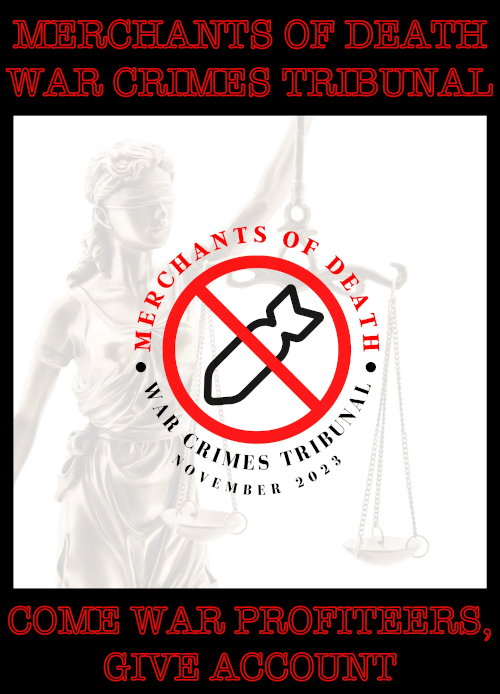
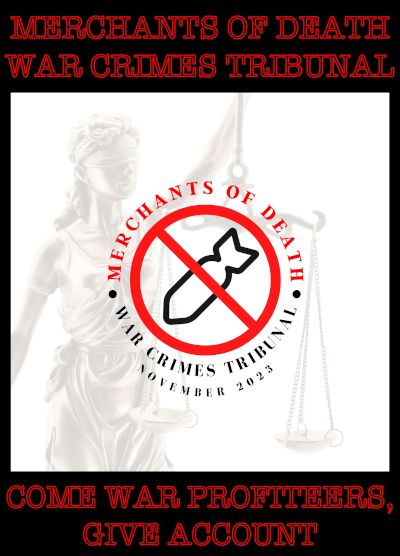
Add Social Media tags, Spotify & iTunes players, Resize merchants. of death image
Add meta tags: Facebook & Twitter
Add button: iTunes
Add Spotify mini player
Resize merchants of death war crimes tribunal

diff --git a/index.html b/index.html
@@ -9,10 +9,31 @@
 <meta property="og:locale" content="en_US" />
 <meta property="og:type" content="article" />
 
+<meta property="og:url"           content="https://www.myWbsite.com/my-page.html" />
+<meta property="og:type"          content="website" />
+<meta property="og:title"         content="MICIMATT: The Military Industrial Complex has Mutated" />
+<meta property="og:description"   content="Page description" />
+<meta property="og:image"         content="https://www.myWebsite.com/asset/image.jpg" />
+
+<!--Facebook-->
+<meta property="og:url" content="{{ craft.app.request.absoluteUrl }}"/>
+<meta property="og:type" content="website"/>
+<meta property="og:title" content="{{ entry.title }}"/>
+<meta property="og:image" content="{{ entry.socialImage }}"/>
+<meta property="og:description" content="{{ entry.description }}"/>
+<meta property="og:site_name" content="{{ site.name }}"/>
+
+<!--twitter-->
+<meta name="twitter:url" content="{{ craft.app.request.absoluteUrl }}"/>
+<meta name="twitter:title" content="{{ entry.title }}"/>
+<meta name="twitter:description" content="{{ entry.description }}"/>
+<meta name="twitter:image" content="{{ entry.socialImage }}"/>
+
 <link rel='stylesheet' id='wp-bigfoot-css'  href='https://www.openpolitics.com/wp-content/plugins/wp-bigfoot/public/css/bigfoot-default.css' type='text/css' media='all' />
 <link rel='stylesheet' id='genesis-openpolitics-child-theme-css'  href='https://monster.openpolitics.com/wp-content/themes/genesis-child/style.css?ver=2.2.2' type='text/css' media='all' />
 <link rel='stylesheet' id='child-theme-css-css'  href='https://monster.openpolitics.com/wp-content/themes/genesis-child/style.css?ver=4.5.4' type='text/css' media='all' />
 <link rel='stylesheet' id='bootstrap-css-css'  href='https://www.openpolitics.com/wp-content/themes/genesis-child/bootstrap.min.css?ver=4.5.4' type='text/css' media='all' />
+
 
   <!--- 1) jQuery -->
   <script src="https://code.jquery.com/jquery-1.12.4.min.js"   
@@ -103,7 +124,7 @@ div.site-inner {
 }
 
 #nav_menu {
-  margin-top: 10px;
+  margin-top: 0px;
 }
 
 .feature {
@@ -181,6 +202,25 @@ div.verse div.chorus {
 
 span.word-text {
 	color: #fff;
+}
+
+#MICIMATT {
+  color: #BBC2CC;
+  text-shadow: 2px 2px 4px #999;
+}
+
+.silver {
+  color: #BBC2CC;
+  text-shadow: 2px 2px 4px #888;
+}
+
+#listen_services {
+  margin-top: 25px;
+  margin-left: 50px;
+}
+
+.nav_select {
+  text-shadow: 2px 2px 4px #a8a82f;
 }
 
 #lyrics {
@@ -330,7 +370,7 @@ iframe {
     float: none;
     clear: both;
     width: 100%;
-    padding-bottom: 15px;
+    padding-bottom: 5px;
 }
 
 .video {
@@ -466,6 +506,26 @@ iframe.podast {
 }
 
 
+#embed-iframe {
+    margin-top: 10px;
+}
+
+#share_buttons {
+  float: right;
+  text-align: right;
+
+}
+
+  .facebookButton {
+      /* Style Button */
+  }
+
+  .twitterButton {
+      /* Style Button */
+  }
+
+
+
 @media (max-width: 385px) {
     div.site-container {
         width: 375 important;
@@ -540,6 +600,14 @@ iframe.podast {
 
 }
 
+    @media screen and (min-width: 860px) {
+      body {
+        display: flex;
+        flex-direction: row;
+        gap: 1rem;
+      }
+    }
+
 
 </style>
 <link rel="stylesheet" type="text/css" href="https://www.openpolitics.com/wp-content/themes/genesis-child/print.css" media="print">
@@ -566,22 +634,38 @@ iframe.podast {
 
 <h1 id="MICIMATT" style="text-align:center"><strong>The Military Industrial Complex</strong> (MIC)<br /> has become <strong>The MICIMATT</strong></h1>
 
-  <div id="nav_menu" class="power-centers">
-    <strong class="highlight_color">MIC Origins</strong> | <a href="https://writing.openpolitics.com/i/138629464/lyrics-remixed-micimatt-song">Lyrics</a> | <a href="https://merchantsofdeath.org/">War Crimes</a> | <a href="/credits/">Credits</a> | <a href="/about/">About</a>
-  </div>
-
 
 <div id="video_container" ><!--youtube_video-->
   <iframe class="video" src="https://www.youtube.com/embed/SCOy01lhNQs" title="The “Monster Mash” Song (Remixed)" autoplay; clipboard-write; encrypted-media; gyroscope; picture-in-picture; web-share allowfullscreen></iframe>
 </div>
 
-<div id="view_lyrics">
+<div id="share_buttons">
+
+      <a class="fb-xfbml-parse-ignore" target="_blank" href="https://www.facebook.com/sharer/sharer.php?u=https%3A%2F%2Fdevelopers.facebook.com%2Fdocs%2Fplugins%2F&amp;src=sdkpreparse">
+        <div class="facebookButton">Share</div>
+      </a>
+
+      <a href="https://twitter.com/share?url=http%3A%2F%2Fmicimatt.org%2F&text=Youre%20Text%20Here%20" target="_blank">
+        <div class="twitterButton">Tweet</div> 
+      </a>
+
+  
+  </div>
+
+
+
+  <div id="nav_menu" class="power-centers">
+    <strong class="highlight_color nav_select">MIC Origins</strong> | <a href="https://writing.openpolitics.com/i/138629464/lyrics-remixed-micimatt-song">Song Lyrics</a> | <a href="https://merchantsofdeath.org/">War Crimes</a> | <a href="/credits/">Credits</a> | <a href="/about/">About</a>
+  </div>
+
+  
+<!--div id="view_lyrics">
 <a href="/lyrics/">View Lyrics &amp; Footnotes</a>
-</div>
+</div-->
 
 <a name="new-lyrics"></a>
 
-<h2>MIC Origins:</h2>
+<h2 class="silver">MIC Origins:</h2>
 
 President <a href="https://en.wikipedia.org/wiki/Dwight_D._Eisenhower">Dwight Eisenhower</a> 
 coined the term “<a href="https://en.wikipedia.org/wiki/Military%E2%80%93industrial_complex">The Military Industrial Complex</a>” 
@@ -599,7 +683,7 @@ coined the term “<a href="https://en.wikipedia.org/wiki/Military%E2%80%93indus
       </li>
   </ul>
 
-<h2>What is the MICIMATT?</h2>
+<h2 class="silver">What is the MICIMATT?</h2>
 
 <ul>
   <li>The term “<strong class="highlight_orange">MICIMATT</strong>” refers to the powerful <strong class="highlight_color">network of persons and institutions</strong> with <strong class="highlight_color">convergent interests</strong> enabling a <strong>militaristic US foreign policy</strong> to impose US <strong class="highlight_orange">liberal hegemony on the world</strong>.</li>
@@ -610,12 +694,28 @@ coined the term “<a href="https://en.wikipedia.org/wiki/Military%E2%80%93indus
     M<span class="word-text">ilitary</span> | I<span class="word-text">ndustrial</span> | C<span class="word-text">ongressional</span> | I<span class="word-text">ntelligence</span> | M<span class="word-text">edia</span> | A<span class="word-text">cademia</span> | T<span class="word-text">hink</span> T<span class="word-text">anks</span>
   </div>
 
-<h2 class="feature">Feature: Merchants of Death War Crimes Tribunal</h2>
+
+<h2 class="">Listen on Spotify / Apple </h2>
+  <div id="listen_services">
+    <div id="embed-iframe">
+          <iframe style="border-radius:12px" 
+              src="https://open.spotify.com/embed/track/0xxZY5C9xxij3D1HkzbnfC?utm_source=generator" 
+              width="300" height="80" frameBorder="0" allowfullscreen="" 
+              allow="autoplay; clipboard-write; encrypted-media; fullscreen; picture-in-picture" 
+              loading="lazy">
+          </iframe>
+    </div>
+  </div>
+      
+    <img width="200px" alt="iTunes" src="https://monster.openpolitics.com/media/img/iTunes-button.png"></img>
+
+
+<h2 class="feature silver">Feature: Merchants of Death War Crimes Tribunal</h2>
 Peace Action Network of Lancaster (sponsored the recording of MICIMATT song)<br />
 
 <img id="merchants_of_death" src="https://monster.openpolitics.com/media/img/merchants-of-death-war-crimes-tribunal.png" width="500" height="694" alt="Merchants of Death War Crimes Tribunal">
 
-<h3>Weapons Manufacturers, Nov 12, 2023.</h3>
+<h3 class="silver">Weapons Manufacturers, Nov 12, 2023.</h3>
 Through testimony of witnesses and documentary evidence — four U.S. weapons manufacturers which produce and <strong>sell products that attack and kill not only combatants but non-combatants</strong> as well. 
 (<a href="https://merchantsofdeath.org/">link</a>)
 
@@ -626,11 +726,11 @@ Through testimony of witnesses and documentary evidence — four U.S. weapons ma
   <li><a href="https://www.ga.com/defense">General Atomics</a></li>
 </ul>
 
-
+  
 
   <a name="MICIMATT-background"></a>
 
-  <h2 style="font-weight: 800; margin-top: 50px">MICIMATT background <a href="/#MICIMATT-background">#</a></h2>
+  <h2 class="silver" style="font-weight: 800; margin-top: 50px">MICIMATT background <a href="/#MICIMATT-background">#</a></h2>
 
   <ul class="disc">
       <li>The term <strong>MICIMATT</strong> was coined by <a title="Wikipedia: Ray McGovern coined the term 'MICIMATT'" target="_blank" href="https://en.wikipedia.org/wiki/Ray_McGovern">Ray McGovern</a>, a former CIA analyst who prepared the Presidential Daily Brief, before retiring and becaming a Peace Activist.  (<a title="Ray McGovern's website" target="_blank" href="https://raymcgovern.com/?s=micimatt">website</a>)</li>
@@ -646,12 +746,17 @@ Through testimony of witnesses and documentary evidence — four U.S. weapons ma
   </div>
   <a name="in-the-news"></a>
 
-  <h2 style="font-weight: 800; margin-top:60px">MICIMATT in the News <a href="#in-the-news">#</a></h2>
+  <h2 class="silver" style="font-weight: 800; margin-top:60px">MICIMATT in the News <a href="#in-the-news">#</a></h2>
     <ul class="disc">
       <li><a target="_blank" title="Josh Paul, a former State Department official who resigned last month to protest continued arms sales to Israel amid its bombardment of Gaza, writing in a viral letter that one-sided U.S. support for Israel is “shortsighted,” “destructive” and “contradictory.”" href="https://youtu.be/1w9fAgaUBrw">State Department Official Resigns, Says Israel Is Using U.S. Arms to Massacre Civilians in Gaza</a> (Democracy Now!)</li>
       <li><a target="_blank"title="The Chris Hedges Report Show with former Congressman and former presidential candidate Dennis Kucinich on endless war and our acceleration into the abyss." href="https://chrishedges.substack.com/p/the-chris-hedges-report-show-with-011?utm_campaign=post#details">Dennis Kucinich on endless war and our acceleration into the abyss</a> &nbsp; (Chris Hedges Report)</li>
       <li><a target="_blank" title="See how AI puts our human leaders to shame in answering the question: “How Does Violence Corrupt the Soul?”" href="https://www.openpolitics.com/2023/11/03/how-does-violence-corrupt-the-soul-ask-chat-gpt/">How Does Violence Corrupt the Soul? Ask Chat GPT.</a> &nbsp; (Tim Langeman)</li>
     </ul>
+
+  <br />
+  <div class="power-centers">
+    <strong class="highlight_color">MIC Origins</strong> | <a href="https://writing.openpolitics.com/i/138629464/lyrics-remixed-micimatt-song">Song Lyrics</a> | <a href="https://merchantsofdeath.org/">War Crimes</a> | <a href="/credits/">Credits</a> | <a href="/about/">About</a>
+  </div>
 
 
   </article>

diff --git a/wp-content/themes/genesis-child/custom.css b/wp-content/themes/genesis-child/custom.css
@@ -375,9 +375,10 @@ a.read-more {
  }
 
 article.quote {
-	margin: 30px 50px 0 30px;
+	margin: 20px 50px 0 30px;
 	/* max-width: 850px; */
 }
+
 article.transcript {
 	margin: 30px 50px 0 90px;
 	/* max-width: 900px; */
